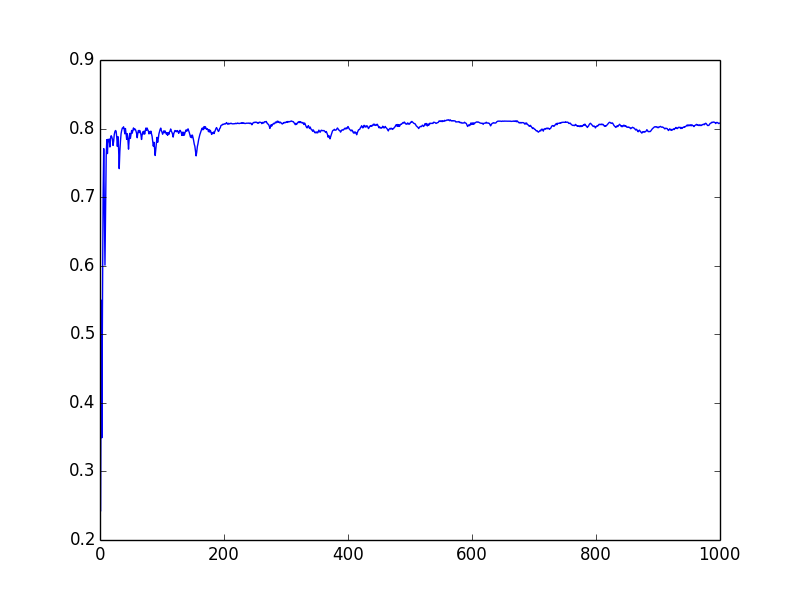
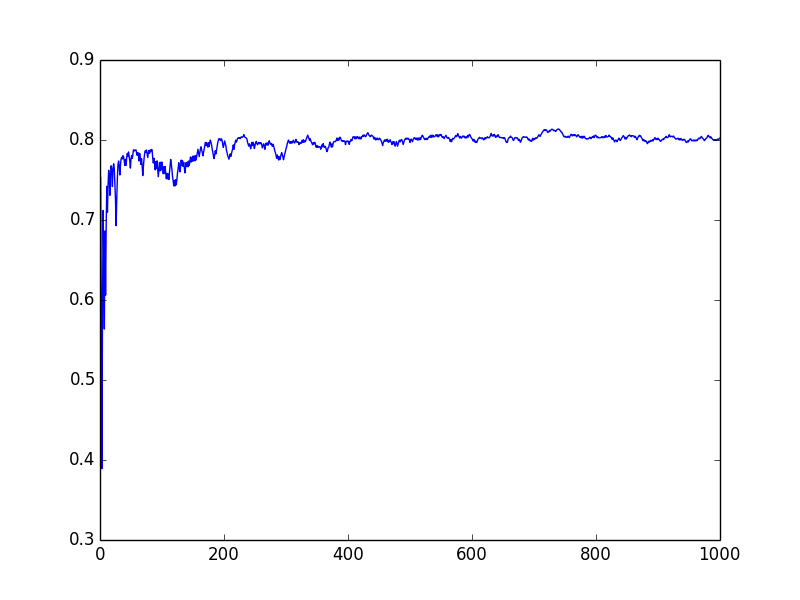
update test result

diff --git a/perceptron-svm/svm.py b/perceptron-svm/svm.py
@@ -66,7 +66,7 @@ def train(X, y, c):
 
 
         else:
-            w -= 1/it * w
+            w -= 1.0/it * w
 
     if args.c:
         print('\nMax train accuracy\t%f' % (max_acc))
